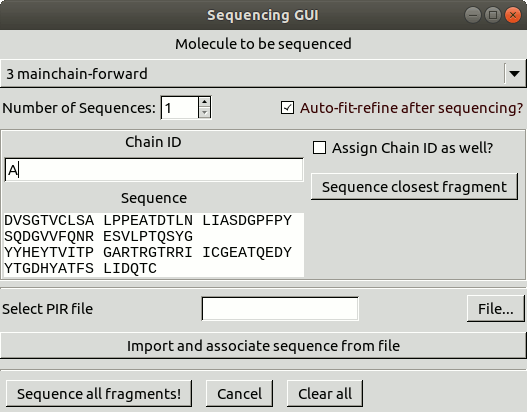
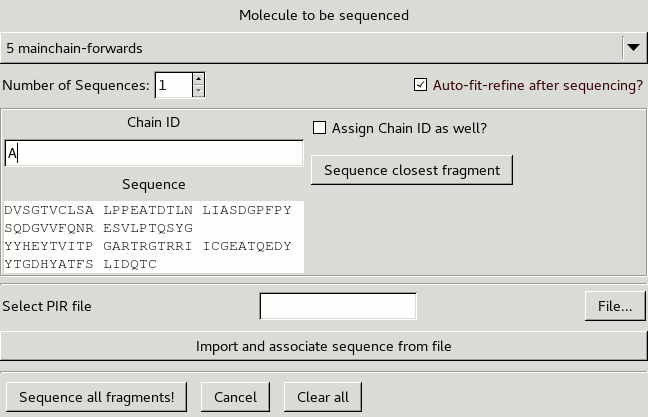
NCS (in progress)

diff --git a/part2.html b/part2.html
@@ -113,7 +113,7 @@
     There are 96 residues to build and it takes about 15 minutes or so.
     If you make a mistake you can press <code>Undo</code>
     to move back one residue.
-    The last residue should be a cysteine that forms a disulphide bond.
+    The residue at the C-terminus is a cysteine that forms a disulphide bond.
     Click <code>Dismiss</code> on the baton controls when done.
     There may also be a molecule called <code>Baton Atom Guide Points</code>
     that needs deleting.
@@ -122,19 +122,16 @@
   <h6 id="4">4. Convert to Mainchain</h6>
   <p>
     Now we need to turn these CA positions into mainchain.
-    Use <code>Go To Atom</code> to centre on the first residue
-    of the <code>Baton Atoms</code> molecule.
-    Then use <code>Ca Zone -> Mainchain</code>
+    Use <code>Ca Zone -> Mainchain</code>
     in <code>Other Modelling Tools</code>
-    and click on the first CA.
+    and click one of the baton atoms.
     You will need to wait several seconds while it builds
     (note that you need at least 6 baton points for this to work).
-    Two new molecules will be created:
-    <code>mainchain-forwards</code> and <code>mainchain-backwards</code>
-    traced in different directions.
+    Two new molecules will be created that are traced in different directions.
     We know the forward direction is correct
     (see how much better the carbonyls fit)
-    so the other molecule can be deleted.
+    so <code>mainchain-backwards</code> and <code>Baton Atoms</code>
+    can be deleted.
   </p>
   <p>
     The backbone now needs to be tidied up.
@@ -145,6 +142,7 @@
     That refinement may have gone to quickly to make a note of problem areas.
     Use <code>Density fit analysis</code>
     and real space refinement to correct anything that's wrong.
+    Also use <code>Edit / Change Chain IDs</code> to label this chain as A.
   </p>
 
   <h6 id="5">5. Assign Sequence</h6>
@@ -171,10 +169,11 @@
     The sequencing may fail depending on how good the model is.
     You need to make sure the CBs are in density
     and pointing in the right direction
+    and the fragment is long enough.
     Use <code>Draw / Sequence View</code> to look for
     alanine residues that don't match the sequence
-    (possibly at the termini).
-    Use <code>Edit / Change Chain IDs</code> to label this chain as A.
+    (possibly at the termini)
+    and mutate them into the correct residues.
   </p>
 
   <h6 id="6">6. Build Another Molecule</h6>
@@ -186,23 +185,23 @@
     Then use <code>Place Helix Here</code>
     in <code>Other Modelling Tools</code>
     to place a helix in the density.
-    Make sure the placed helix fits the density well,
-    dock the sequence and fit the sidechains.
+    Make changes to the helix so that it fits the density well,
+    dock the sequence and fit the side chains.
   </p>
   <p>
     Now we will superpose a copy of the A chain onto this helix.
-    Now compare the Helix molecule with the previously built model.
-    Find matching start and end point on the helix and previous model.
-    LSQ fit a copy of the previous model on top of the Helix molecule
-    [Coot displayes a new molecule that almost fits the so-far unbuilt density.]
-    Let’s call this new chain, chain “B”
-    Now clean up the fit, first do a rigid body refinement of the whole new model
-    then an All Molecule stepped refine should make the fit nice
-    Merge the “B” chain into the “A” chain molecule above:
-    Calculate→Merge molecules→Append/Insert Molecule(s)
-    [Choose the most recent mainchain molecule]
-    into Molecule
-    [Choose the molecule of the A chain] → Merge.
+    Go to <code>Calculate / LSQ Superpose</code>:
+  </p>
+  <img src="img/superpose.png" alt="LSQ Superpose">
+  <p>
+    Make sure you are moving a copy of chain A onto the new helix.
+    A new molecule called <code>Copy_of_mainchain-forwards</code>
+    should appear that almost fits the density.
+    To clean up the fit with a rigid body refinement,
+    first click <code>Rigid Body Fit Zone</code> in the refinement toolbar
+    and then the N-terminus and C-terminus.
+    Then perform a stepped refinement of the whole molecule
+    and merge the the copy back into the original.
   </p>
   <p>
     Unfortunately, there is no slick way to make Coot rebuild ghosts
